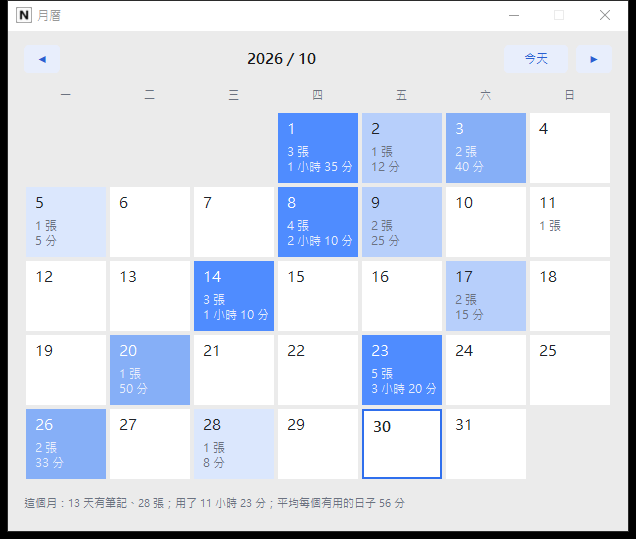
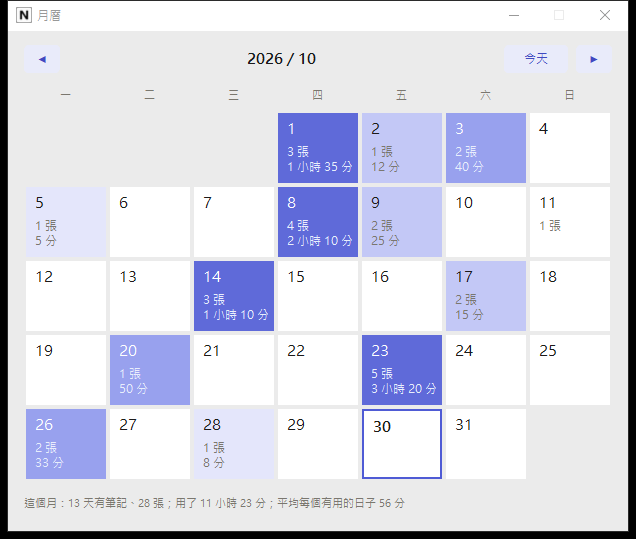
Notion 1.0.8：配色重選（暖白紙張底＋靛藍主色）、工具列間距
內容：淺色主題改為暖白底、純白內文框、近黑字、靛藍主色（選中、按鈕、連結、月曆同色系），深色主題同步；工具列按鈕間距與上下留白拉開；截圖重拍；版號 1.0.8
AI 協助：Claude Code（範圍：配色與版面）
審閱：Peter Liu（已審閱並修改）

Changed region(s): [[0.2987, 0.2078, 0.5676, 0.6234], [0.5676, 0.6234, 0.717, 0.8905]]

diff --git a/Notion/personalnote/ui/main_window.py b/Notion/personalnote/ui/main_window.py
@@ -187,22 +187,22 @@ class MainWindow(ctk.CTk):
 
         # 第二排：動作
         act = ctk.CTkFrame(parent, fg_color="transparent")
-        act.grid(row=1, column=0, sticky="ew", pady=(2, 6))
+        act.grid(row=1, column=0, sticky="ew", pady=(6, 8))     # 跟上面日期那排、下面標題框都留白（Peter：功能之間的間距）
         act.grid_columnconfigure(6, weight=1)
-        mk(act, "menu", self.toggle_sidebar, tip=lambda: _("收起／展開左欄") + f"（{self.keymap.key_of('sidebar')}）").grid(row=0, column=0, padx=(0, 2))
-        mk(act, "today", lambda: self.go_day(date.today()), text=_("今天"), width=64, tip=_("回到今天")).grid(row=0, column=1, padx=2)
+        mk(act, "menu", self.toggle_sidebar, tip=lambda: _("收起／展開左欄") + f"（{self.keymap.key_of('sidebar')}）").grid(row=0, column=0, padx=(0, 6))
+        mk(act, "today", lambda: self.go_day(date.today()), text=_("今天"), width=64, tip=_("回到今天")).grid(row=0, column=1, padx=5)
         mk(act, "cal", self.show_calendar, text=_("月曆"), width=64,
-           tip=lambda: _("月曆：哪幾天有筆記、每天用多久") + f"（{self.keymap.key_of('calendar')}）").grid(row=0, column=2, padx=2)
+           tip=lambda: _("月曆：哪幾天有筆記、每天用多久") + f"（{self.keymap.key_of('calendar')}）").grid(row=0, column=2, padx=5)
         mk(act, "plus", lambda: self.new_note(date.today()), text=_("新筆記"), width=92, plain=False,
-           fg_color=T.ACCENT, hover_color=T.ACCENT_HOVER, tip=lambda: _("今天加一張") + f"（{self.keymap.key_of('new_note')}）").grid(row=0, column=3, padx=(2, 0))
+           fg_color=T.ACCENT, hover_color=T.ACCENT_HOVER, tip=lambda: _("今天加一張") + f"（{self.keymap.key_of('new_note')}）").grid(row=0, column=3, padx=(6, 0))
         mk(act, "tmpl", self.template_menu, text="▾", width=26, plain=False, fg_color=T.ACCENT, hover_color=T.ACCENT_HOVER,
-           tip=_("用範本開一張新筆記")).grid(row=0, column=4, padx=(0, 2))
+           tip=_("用範本開一張新筆記")).grid(row=0, column=4, padx=(0, 6))
         mk(act, "todo", self.show_todo_list, text=_("未完成"), width=64,
-           tip=lambda: _("未完成清單：所有筆記裡還沒打勾的") + f"（{self.keymap.key_of('todo_list')}）").grid(row=0, column=5, padx=2)
+           tip=lambda: _("未完成清單：所有筆記裡還沒打勾的") + f"（{self.keymap.key_of('todo_list')}）").grid(row=0, column=5, padx=5)
         # 復原／重做搬到內文上方的格式列（文字按鈕，箭頭圖示 Peter 說看不懂），這一排才放得下 640 寬
-        mk(act, "attach", self.attach_file, tip=_("插入檔案（複製一份到 attachments）")).grid(row=0, column=7, padx=2)
-        mk(act, "trash", self.clear_menu, tip=_("清除…")).grid(row=0, column=8, padx=2)
-        mk(act, "settings", self.open_settings, tip=_("設定")).grid(row=0, column=9, padx=(2, 0))
+        mk(act, "attach", self.attach_file, tip=_("插入檔案（複製一份到 attachments）")).grid(row=0, column=7, padx=5)
+        mk(act, "trash", self.clear_menu, tip=_("清除…")).grid(row=0, column=8, padx=5)
+        mk(act, "settings", self.open_settings, tip=_("設定")).grid(row=0, column=9, padx=(6, 0))
 
     SIDEBAR_DAYS = 45            # 左欄一次畫幾天（幾千張全畫會卡住主迴圈 30 秒）
     SIDEBAR_SEARCH_MAX = 200     # 搜尋結果最多列幾張

diff --git a/Notion/personalnote/ui/theme.py b/Notion/personalnote/ui/theme.py
@@ -4,27 +4,27 @@ from __future__ import annotations
 
 import customtkinter as ctk
 
-ACCENT = ("#2f6fed", "#4f8cff")          # 主色：選中的筆記、按鈕
-ACCENT_HOVER = ("#245bd0", "#3b78f0")
-SIDEBAR_BG = ("#f1f3f7", "#1b1d22")
-MAIN_BG = ("#ffffff", "#15161a")
-EDITOR_BG = ("#eef1f6", "#262a33")       # 可以打字的地方：要跟外框明顯不同（Peter：不然不知道哪裡能輸入）
-EDITOR_BORDER = ("#c9cfda", "#3a3f4b")   # 標題欄、內文框的細邊
-TEXT = ("#1f2328", "#e6e6e6")
-TEXT_MUTED = ("#6b7280", "#9aa0a6")
-ROW_HOVER = ("#e4e8f0", "#2a2d35")
-DAY_HEADER = ("#374151", "#c7cbd1")
-DAY_ACTIVE_BG = ("#e4e8f0", "#272a32")   # 左欄：選中那張所在的那一天整組的底色（比左欄深一階就好，選中那張另外有色帶）
-ROW_SELECTED_BG = ("#d6e2fb", "#2b3a5c") # 左欄：選中那張的淡底（左邊再加一條主色色帶，不整條塗藍）
+ACCENT = ("#4f5bd5", "#8b93ff")   # 主色：選中的筆記、按鈕、連結（靛藍，比純藍柔和；Peter 2026-10-30 要一套好一點的配色）
+ACCENT_HOVER = ("#3f49b8", "#7a82f0")
+SIDEBAR_BG = ("#f0eee9", "#1f2026")   # 左欄：暖灰（紙張感）
+MAIN_BG = ("#f7f6f2", "#17181c")   # 視窗底：暖白，比內文框暗一點點，白框才看得出來
+EDITOR_BG = ("#ffffff", "#24262c")   # 可以打字的地方：純白
+EDITOR_BORDER = ("#d9d6cf", "#3a3d46")   # 標題欄、內文框的細邊
+TEXT = ("#1c1b19", "#e8e6e3")   # 近黑（不用純黑，長時間看比較不刺）
+TEXT_MUTED = ("#7a776f", "#9b9a95")
+ROW_HOVER = ("#e6e3dc", "#2c2e35")
+DAY_HEADER = ("#3f3e3a", "#c5c4bf")
+DAY_ACTIVE_BG = ("#e8e5dd", "#2a2c33")   # 左欄：選中那張所在的那一天整組的底色
+ROW_SELECTED_BG = ("#dde0f7", "#33375a")   # 左欄：選中那張的淡靛藍底（左邊再加一條主色色帶）
 DANGER = ("#d9534f", "#e06c66")
-CARD_BG = ("#ffffff", "#2b2f38")      # 設定面板的卡片（比視窗底色亮一階）
-DIVIDER = ("#e6e9ef", "#3a3e48")      # 卡片裡列與列之間的細線
-PANEL_BG = ("#f3f4f7", "#1f2127")     # 設定面板右邊的底
-BTN_SOFT_BG = ("#e8eefc", "#33405e")    # 次要按鈕：淡主色底、主色字（不用細框）
-BTN_SOFT_HOVER = ("#d8e3fb", "#3e4d70")
-BTN_SOFT_FG = ("#2a5fd0", "#9dbcff")
-KEYCAP_BG = ("#eef0f4", "#3a3e48")      # 快捷鍵表的鍵帽
-KEYCAP_HOVER = ("#e1e4eb", "#464b57")
+CARD_BG = ("#ffffff", "#2a2c33")   # 設定面板的卡片
+DIVIDER = ("#e8e5de", "#3a3d46")      # 卡片裡列與列之間的細線
+PANEL_BG = ("#f3f1ec", "#1c1d22")   # 設定面板右邊的底
+BTN_SOFT_BG = ("#e9ebfa", "#343a5e")   # 次要按鈕：淡靛藍底、靛藍字
+BTN_SOFT_HOVER = ("#dbdff7", "#3f4670")
+BTN_SOFT_FG = ("#4149c0", "#aab0ff")
+KEYCAP_BG = ("#efede8", "#3a3d46")   # 快捷鍵表的鍵帽
+KEYCAP_HOVER = ("#e3e0d9", "#464a55")
 
 PAD = 10
 RADIUS = 6                   # 圓角小一點：CTk 畫圓角是用反鋸齒的圓，半徑大四個角看起來糊糊的（Peter 反映）
@@ -92,7 +92,7 @@ def fmt_day(d, with_weekday: bool = True) -> str:
     return _("{0}（{1}）").format(s, _(WEEKDAY_ZH[d.weekday()])) if with_weekday else s
 
 
-LINK_COLOR = ("#1a5fd0", "#7fb0ff")
+LINK_COLOR = ("#3b49c9", "#9aa3ff")
 
 
 def center_over(dlg, parent, width: int = 0, height: int = 0) -> None:

diff --git a/Notion/personalnote/changelog.py b/Notion/personalnote/changelog.py
@@ -4,6 +4,9 @@
 from __future__ import annotations
 
 ENTRIES: tuple[tuple[str, tuple[str, ...], tuple[str, ...]], ...] = (
+    ("1.0.8",
+     ("淺色主題改成白底黑字、藍色選中；工具列按鈕之間與上下留白拉開",),
+     ("Light theme is now white background, black text, blue selection; more spacing between toolbar buttons and rows",)),
     ("1.0.7",
      ("筆記連結：[[標題]] Ctrl+點跳到另一張，「返回」（Alt+Left）回來；右鍵「複製筆記連結」",
       "範本：新筆記旁的 ▾（會議紀錄、週報…，.app/templates 可自己加）；未完成清單（Ctrl+L）；匯出日期區間；清單行 Tab 縮排；搜尋框下列最近標籤",

diff --git a/Notion/personalnote/ui/calendar.py b/Notion/personalnote/ui/calendar.py
@@ -15,8 +15,8 @@ from ..usage import UsageLog, fmt_duration
 from ..storage import NoteStore
 from . import theme as T
 
-LEVELS_LIGHT = ("#ffffff", "#dbe7fd", "#b7cffb", "#86aff7", "#4f8cff")   # 用 0／<10／<30／<60／≥60 分
-LEVELS_DARK = ("#2b2f38", "#2f3f5e", "#355084", "#3b64ad", "#4f8cff")
+LEVELS_LIGHT = ("#ffffff", "#e4e6fb", "#c3c8f6", "#98a1ee", "#5f6ad9")   # 用 0／<10／<30／<60／≥60 分
+LEVELS_DARK = ("#2a2c33", "#33375a", "#3f4670", "#4d579a", "#8b93ff")
 
 
 def level(seconds: int) -> int:

diff --git a/Notion/personalnote/__init__.py b/Notion/personalnote/__init__.py
@@ -12,7 +12,7 @@
 - app.py      進入點：把上面幾層接起來
 """
 
-__version__ = "1.0.7"
+__version__ = "1.0.8"
 APP_NAME = "Notion"          # 視窗、exe、.bat、捷徑都用這個名字（Peter 2026-10-29 從 PersonalNote 改的）；
                              # 套件名、%APPDATA%\PersonalNote、加密常數不跟著改，舊資料才讀得到；桌面筆記資料夾預設改叫 Notion（config.default_note_dir）
 AUTHOR = "Peter Liu"         # 設定面板最底下與 exe 的版本資訊顯示

diff --git a/Notion/README.md b/Notion/README.md
@@ -1,4 +1,4 @@
-<!-- version: 1.0.7 -->
+<!-- version: 1.0.8 -->
 **繁體中文** | [English](README.en.md) | [日本語](README.ja.md) | [ไทย](README.th.md) | [हिन्दी](README.hi.md)
 
 # Notion

diff --git a/Notion/README.en.md b/Notion/README.en.md
@@ -1,4 +1,4 @@
-<!-- version: 1.0.7 -->
+<!-- version: 1.0.8 -->
 [繁體中文](README.md) | **English** | [日本語](README.ja.md) | [ไทย](README.th.md) | [हिन्दी](README.hi.md)
 
 # Notion

diff --git a/Notion/README.hi.md b/Notion/README.hi.md
@@ -1,4 +1,4 @@
-<!-- version: 1.0.7 -->
+<!-- version: 1.0.8 -->
 [繁體中文](README.md) | [English](README.en.md) | [日本語](README.ja.md) | [ไทย](README.th.md) | **हिन्दी**
 
 # Notion

diff --git a/Notion/README.ja.md b/Notion/README.ja.md
@@ -1,4 +1,4 @@
-<!-- version: 1.0.7 -->
+<!-- version: 1.0.8 -->
 [繁體中文](README.md) | [English](README.en.md) | **日本語** | [ไทย](README.th.md) | [हिन्दी](README.hi.md)
 
 # Notion

diff --git a/Notion/README.th.md b/Notion/README.th.md
@@ -1,4 +1,4 @@
-<!-- version: 1.0.7 -->
+<!-- version: 1.0.8 -->
 [繁體中文](README.md) | [English](README.en.md) | [日本語](README.ja.md) | **ไทย** | [हिन्दी](README.hi.md)
 
 # Notion
